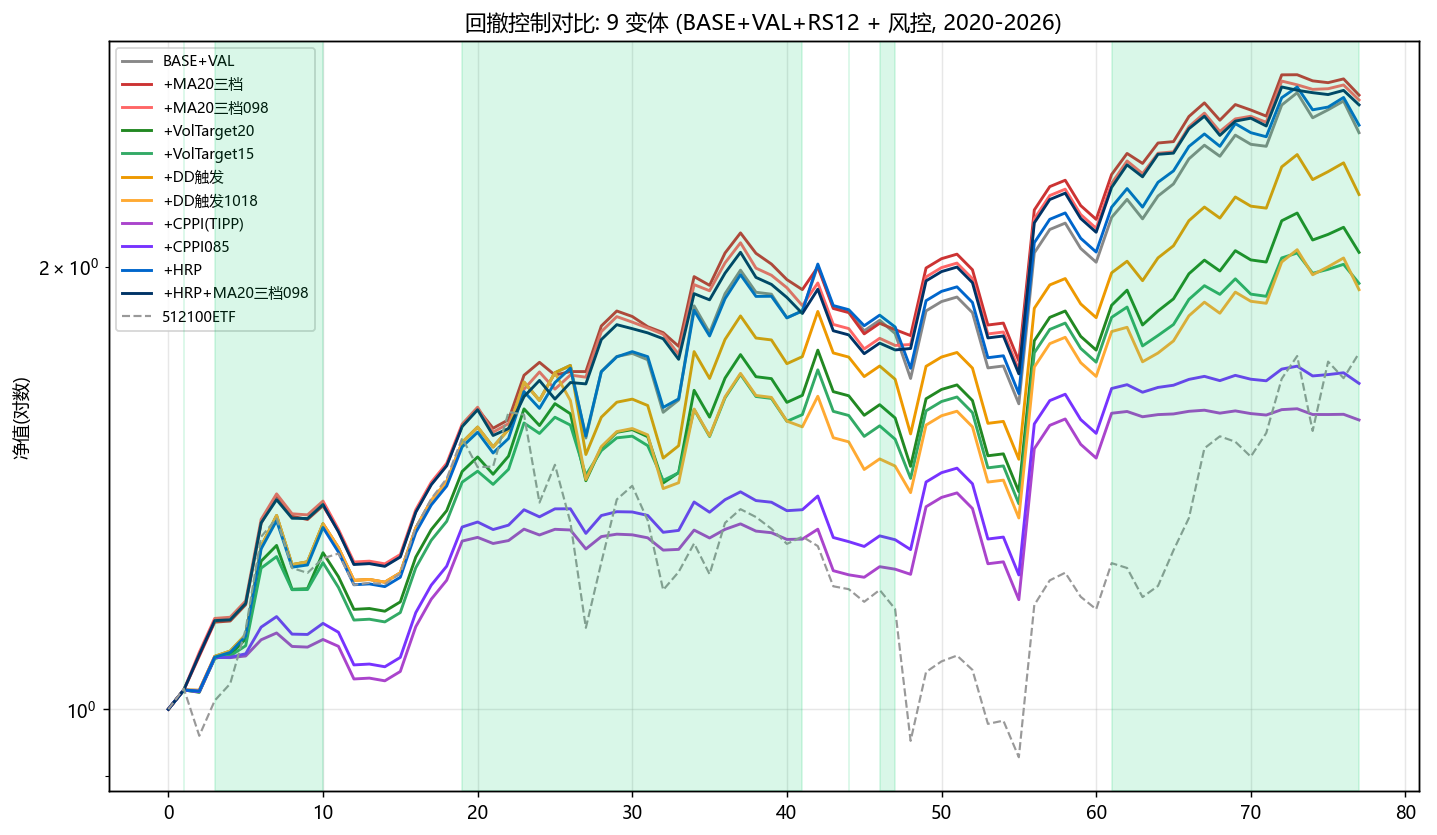
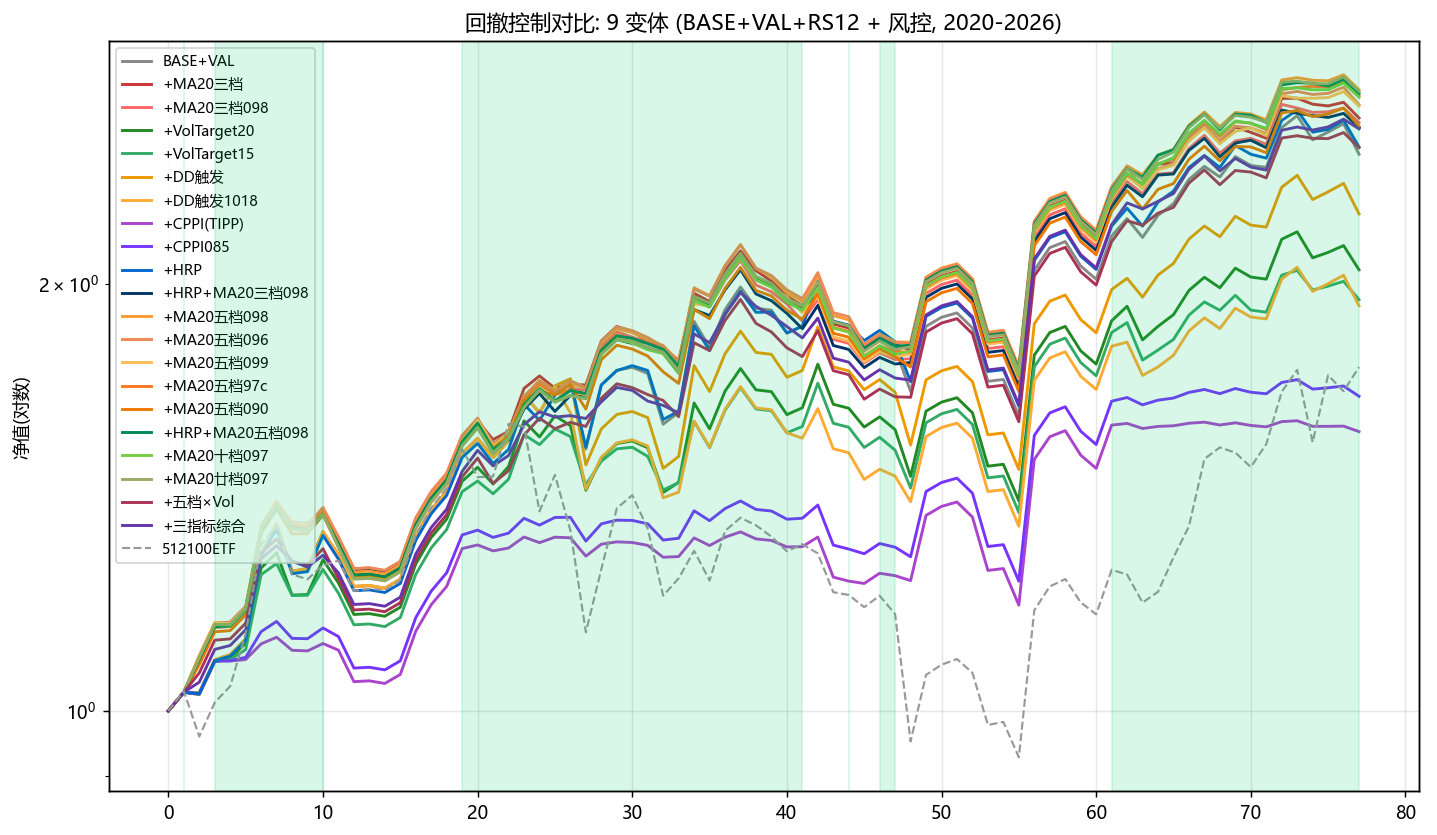
feat(risk-control): extend to 21 variants - MA20 5/10/20-tier ladders and multi-indicator gating, final config HRP+MA20五档098 Calmar 0.98
- 5-tier ladder (1.00/0.99/0.98/0.97) beats 3-tier: CAGR +1pp, Calmar 0.94 vs 0.89
- 10/20-tier converge at Calmar 0.97 (diminishing returns); 5-tier is sweet spot
- multi-indicator gating (5-tier x Vol / MA20 x Vol x momentum) rejected: overlap with trend signal causes missed rallies
- final optimal +HRP+MA20五档098: 16.90%/0.99/-17.16%/Calmar 0.98 (all T-1, 20bps, RS12); archived in study_008 README

Changed region(s): [[0.0612, 0.0623, 0.9492, 0.8719], [0.0306, 0.3114, 0.0919, 0.3425], [0.643, 0.7784, 0.6736, 0.8096]]

diff --git a/research/factor_dic/risk_control_bt.py b/research/factor_dic/risk_control_bt.py
@@ -12,9 +12,21 @@
   8. +CPPI(TIPP)      floor=max(floor,0.90*hwm), w=min(3*(A-F)/A,1)
   9. +CPPI085         m=2.5, α=0.85 (更早锁定, 更慢加仓)
   10. +HRP            层次风险平价权重替代 Top50 等权 (120日窗口, LedoitWolf, 2026-08-03)
-  11. +HRP+MA20三档098  HRP 权重 + MA20 三档 0.98 风控 (研究通过, 拟上线)
+  11. +HRP+MA20三档098  HRP 权重 + MA20 三档 0.98 风控
+  12. +MA20五档098     MA20 五档平滑: 1.0/0.75/0.5/0.25/0.0 (边界 1.00/0.99/0.98/0.97)
+  13. +MA20五档096     同上, 空仓线放宽到 0.96 (边界 1.00/0.99/0.98/0.96)
+  14. +MA20五档099     更早降仓 (边界 1.00/0.995/0.99/0.98)
+  15. +MA20五档97c     中档更密 (边界 1.00/0.99/0.985/0.97)
+  16. +MA20五档090     空仓线过度放宽 (边界 1.00/0.99/0.98/0.90, 敏感性边界)
+  17. +HRP+MA20五档098  HRP 权重 + 五档平滑 (2026-08-03 最终最优: 卡玛 0.98)
+  18. +MA20十档097     档位细分 10 档 (卡玛 0.97, 与廿档收敛, 边际递减)
+  19. +MA20廿档097     档位细分 20 档 (与十档结果几乎相同, 无需更细)
+  20. +五档×Vol        MA20 五档 × 20日波动率惩罚 (多指标综合, 否决: 踏空)
+  21. +三指标综合       MA20距离 × Vol × 20日动量 连续仓位 (否决: 牺牲收益)
 风控降仓部分按现金(0收益)缓冲; RS12 弱时持 512100 ETF 不变; 月度调仓成本 20bps。
 MA20/Vol 仓位信号均取 T-1 日收盘已知信息、T 日生效 (2026-08-03 修复同日前视)。
+2026-08-03 结论: +HRP+MA20五档098 为最终最优 (16.90%/0.99/-17.16%/卡玛0.98);
+档位细分 10 档后收敛; 多指标综合(Vol/动量)无增量。
 输出: results/risk_control_bt.txt, results/risk_control_nav.png
 """
 import os
@@ -59,6 +71,26 @@ VARIANTS = [
     ("+CPPI085", "cppi", {"m": 2.5, "alpha": 0.85}),
     ("+HRP", "hrp", {}),
     ("+HRP+MA20三档098", "ma20_hrp", {"deep": 0.98}),
+    ("+MA20五档098", "ma20_5", {"boundaries": [1.0, 0.99, 0.98, 0.97],
+                                 "weights": [1.0, 0.75, 0.5, 0.25]}),
+    ("+MA20五档096", "ma20_5", {"boundaries": [1.0, 0.99, 0.98, 0.96],
+                                 "weights": [1.0, 0.75, 0.5, 0.25]}),
+    ("+MA20五档099", "ma20_5", {"boundaries": [1.0, 0.995, 0.99, 0.98],
+                                 "weights": [1.0, 0.75, 0.5, 0.25]}),
+    ("+MA20五档97c", "ma20_5", {"boundaries": [1.0, 0.99, 0.985, 0.97],
+                                 "weights": [1.0, 0.75, 0.5, 0.25]}),
+    ("+MA20五档090", "ma20_5", {"boundaries": [1.0, 0.99, 0.98, 0.90],
+                                 "weights": [1.0, 0.75, 0.5, 0.25]}),
+    ("+HRP+MA20五档098", "ma20_hrp_5", {"boundaries": [1.0, 0.99, 0.98, 0.97],
+                                         "weights": [1.0, 0.75, 0.5, 0.25]}),
+    ("+MA20十档097", "ma20_10", {"boundaries": list(np.linspace(1.0, 0.97, 11)[:-1]),
+                                  "weights": [round(1.0 - 0.1 * i, 2) for i in range(10)]}),
+    ("+MA20廿档097", "ma20_20", {"boundaries": list(np.linspace(1.0, 0.97, 21)[:-1]),
+                                  "weights": [round(1.0 - 0.05 * i, 2) for i in range(20)]}),
+    ("+五档×Vol", "ma20_5_vol", {"boundaries": [1.0, 0.99, 0.98, 0.97],
+                                  "weights": [1.0, 0.75, 0.5, 0.25],
+                                  "v_hi": 0.30, "v_lo": 0.50, "v_min": 0.5}),
+    ("+三指标综合", "multi", {"v_hi": 0.30, "v_lo": 0.50, "v_min": 0.2, "mom_min": 0.6}),
 ]
 
 
@@ -151,6 +183,7 @@ def main():
     idx_close_1 = idx_close.shift(1)
     ma20_1 = ma20.shift(1)
     idx_vol20_1 = idx_vol20.shift(1)
+    mom20_1 = idx_ret.rolling(20).sum().shift(1)  # T-1 20日动量 (multi 变体)
     etf_ret = etf["pct_chg"] / 100.0
 
     # ---------- 每月 Top50 (BASE+VAL) ----------
@@ -238,7 +271,7 @@ def main():
         for (lb, rtype, par) in VARIANTS:
             nav = nav_rb[lb].get(rb, 1.0)
             # HRP 变体: 用 HRP 权重组合收益, 其余用等权
-            if rtype in ("hrp", "ma20_hrp"):
+            if rtype in ("hrp", "ma20_hrp", "ma20_hrp_5"):
                 wvec = hrp_w_map.get(rb)
                 if wvec is None:
                     cr = comb_ret
@@ -263,6 +296,45 @@ def main():
                         c, m = idx_close_1.get(t, np.nan), ma20_1.get(t, np.nan)
                         if np.isfinite(c) and np.isfinite(m):
                             w = 1.0 if c >= m else (0.5 if c >= par["deep"] * m else 0.0)
+                    elif rtype in ("ma20_5", "ma20_hrp_5", "ma20_10", "ma20_20"):
+                        c, m = idx_close_1.get(t, np.nan), ma20_1.get(t, np.nan)
+                        if np.isfinite(c) and np.isfinite(m):
+                            r = c / m
+                            w = 0.0
+                            for wgt, bnd in zip(par["weights"], par["boundaries"]):
+                                if r >= bnd:
+                                    w = wgt
+                                    break
+                    elif rtype == "ma20_5_vol":
+                        c, m = idx_close_1.get(t, np.nan), ma20_1.get(t, np.nan)
+                        v = idx_vol20_1.get(t, np.nan)
+                        w5 = 0.0
+                        if np.isfinite(c) and np.isfinite(m):
+                            r = c / m
+                            for wgt, bnd in zip(par["weights"], par["boundaries"]):
+                                if r >= bnd:
+                                    w5 = wgt
+                                    break
+                        if np.isfinite(v) and v > par["v_hi"]:
+                            w = w5 * float(np.clip((par["v_lo"] - v) / (par["v_lo"] - par["v_hi"]),
+                                                   par["v_min"], 1.0))
+                        else:
+                            w = w5
+                    elif rtype == "multi":
+                        c, m = idx_close_1.get(t, np.nan), ma20_1.get(t, np.nan)
+                        v = idx_vol20_1.get(t, np.nan)
+                        mo = mom20_1.get(t, np.nan)
+                        trend = 1.0
+                        if np.isfinite(c) and np.isfinite(m):
+                            trend = float(np.clip((c / m - 0.96) / 0.04, 0.0, 1.0))
+                        vol_pen = 1.0
+                        if np.isfinite(v) and v > par["v_hi"]:
+                            vol_pen = float(np.clip((par["v_lo"] - v) / (par["v_lo"] - par["v_hi"]),
+                                                    par["v_min"], 1.0))
+                        mom_pen = 1.0
+                        if np.isfinite(mo) and mo < 0:
+                            mom_pen = par["mom_min"]
+                        w = trend * vol_pen * mom_pen
                     elif rtype == "vol":
                         v = idx_vol20_1.get(t, np.nan)
                         if np.isfinite(v) and v > 0:
@@ -351,7 +423,12 @@ def main():
               "+VolTarget20": "#282", "+VolTarget15": "#3a6",
               "+DD触发": "#e90", "+DD触发1018": "#fa3",
               "+CPPI(TIPP)": "#a4c", "+CPPI085": "#73f",
-              "+HRP": "#06c", "+HRP+MA20三档098": "#036"}
+              "+HRP": "#06c", "+HRP+MA20三档098": "#036",
+               "+MA20五档098": "#f93", "+MA20五档096": "#e85",
+               "+MA20五档099": "#fb5", "+MA20五档97c": "#f72", "+MA20五档090": "#e70",
+               "+HRP+MA20五档098": "#085",
+               "+MA20十档097": "#7c4", "+MA20廿档097": "#9a6",
+               "+五档×Vol": "#a35", "+三指标综合": "#63a"}
     x_all = sorted(nav_series[labels[0]].index)
     for lb in labels:
         s = nav_series[lb].reindex(x_all).ffill().fillna(1.0)
